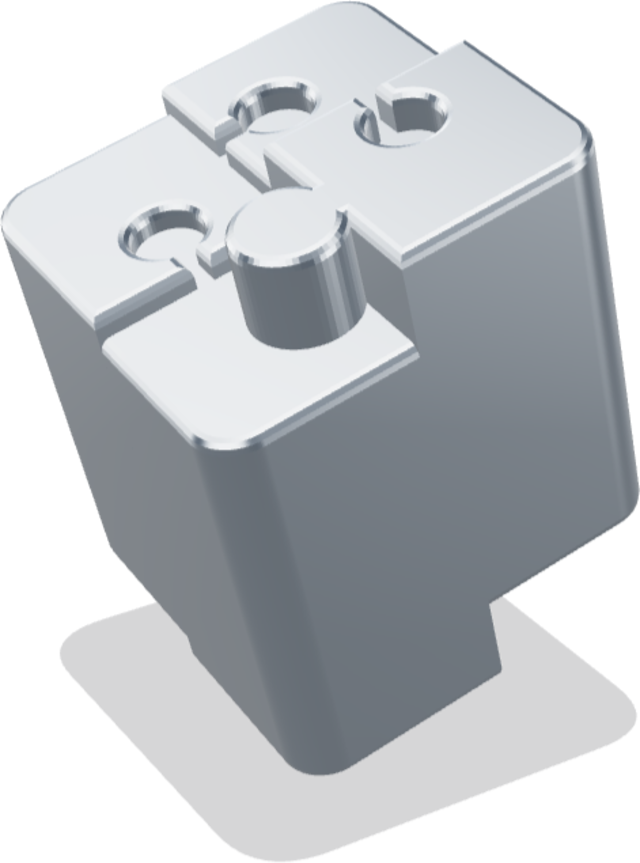
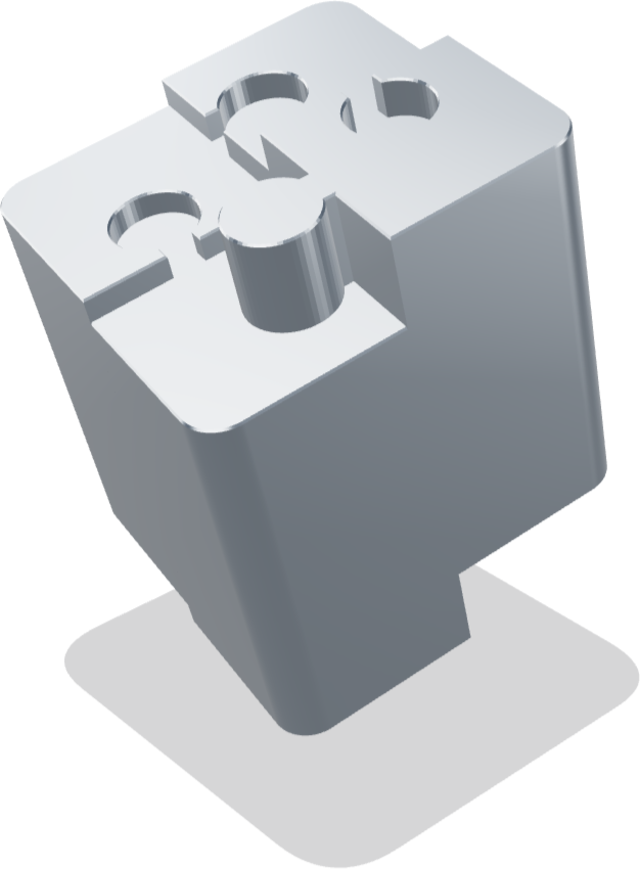
removal of chamfer

diff --git a/src/scripts/samplePart3d.ts b/src/scripts/samplePart3d.ts
@@ -233,8 +233,9 @@ export function initSamplePart(
 
   if (chrome) {
     // Puzzle cube: one quadrant block, rotated into all four positions.
-    // Rounded bevel softens every edge; the seams show as gentle grooves
-    const template = extrudePiece(puzzleQuadrant(0.92), steel, 1.9, 24, 0.055);
+    // Hairline bevel: top and bottom edges read sharp, vertical corners keep
+    // their radius from the 2D outline
+    const template = extrudePiece(puzzleQuadrant(0.92), steel, 1.9, 24, 0.01);
     const blocks = [0, 1, 2, 3].map((k) => {
       const m = k === 0 ? template : new THREE.Mesh(template.geometry, steel);
       m.rotation.y = (k * Math.PI) / 2;
